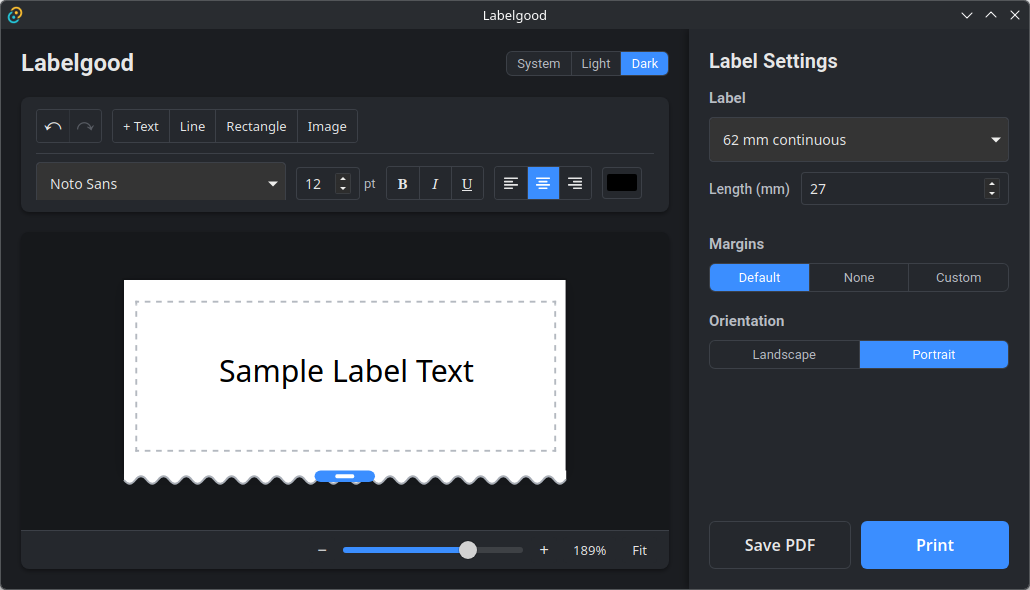
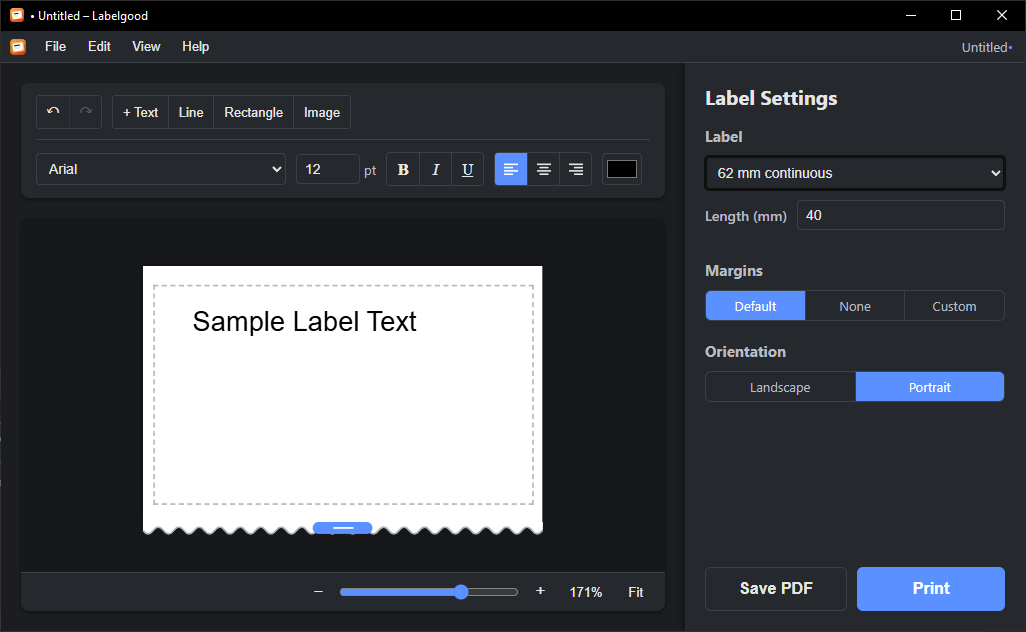
docs: update README and preview image
Document .labelgood files, file associations, Auto Save and crash
recovery; note that versions come only from the release tag. Refresh
the preview screenshot for the new menu bar.

diff --git a/README.md b/README.md
@@ -1,6 +1,6 @@
 # ![](src-tauri/icons/32x32.png) Labelgood
 
-A label editor for label printers such as the Brother QL series. Design labels with text, lines, rectangles and images, then print them directly or save them as PDF. Runs on Windows and Linux.
+A label editor for label printers such as the Brother QL series. Design labels with text, lines, rectangles and images, then print them directly or save them as PDF. Labels save as `.labelgood` files, with auto save and crash recovery. Runs on Windows and Linux.
 
 ![Labelgood preview](images/labelgood_preview.png)
 
@@ -47,6 +47,13 @@ The print dialog shows whatever options the selected printer's driver offers (cu
 
 See [SUPPORTED_DEVICES.md](SUPPORTED_DEVICES.md) for details, and to report a printer that isn't listed.
 
+## Label Files
+
+Labels save as `.labelgood` files (File > Save), with images embedded, so one file is the whole label. The installer, the `.deb`/`.rpm` packages and `install.sh` register the file type, so double-clicking a label opens it in Labelgood. Dropping a label onto the window opens it too.
+
+- **Auto Save** (File menu, on by default) saves a label that already has a file shortly after each change.
+- **Crash recovery**: while a label has unsaved changes, a copy is kept in the app's data folder. If Labelgood closes without saving them (a crash, power loss), the next start offers to restore it. Leftovers are under File > Recover Unsaved Labels.
+
 ## Development
 
 ### Prerequisites
@@ -70,7 +77,8 @@ npm run tauri build  # build the app and its installers/packages
   - `lib/components/` - UI components (toolbar, canvas, settings panel, print dialog, ...)
   - `lib/state/` - shared state (runes in `.svelte.ts` modules) and the editor's behaviour: elements, undo, mouse gestures, keyboard shortcuts, clipboard, printing, settings
   - `lib/` - helpers without app state: types, label formats, rich text editing, rendering for print, and typed wrappers for the Rust commands
-- `src-tauri/` - Rust backend (printing, PDF generation, fonts)
+- `src-tauri/` - Rust backend (printing, PDF generation, fonts, label files, crash recovery)
+  - `linux/` - desktop entry template, file type definition and AppStream metadata for the Linux packages
 - `static/` - Static assets
 - `.vscode/` - Editor settings and recommended extensions
 
@@ -85,7 +93,9 @@ git tag v1.0.0
 git push origin v1.0.0
 ```
 
-Tags must be plain `vMAJOR.MINOR.PATCH`; the packages take their version from the tag.
+Tags must be plain `vMAJOR.MINOR.PATCH`. The tag is the only place the version comes from: the version in `Cargo.toml` and `package.json` is a `0.0.0` placeholder that marks development builds, so there's nothing to bump by hand.
+
+The label file format has its own version (`FILE_VERSION` in `src/lib/state/document.svelte.ts`), which only changes when the file format does; see the comment there.
 
 The workflow runs the tests, then builds with Tauri's bundler:
 
